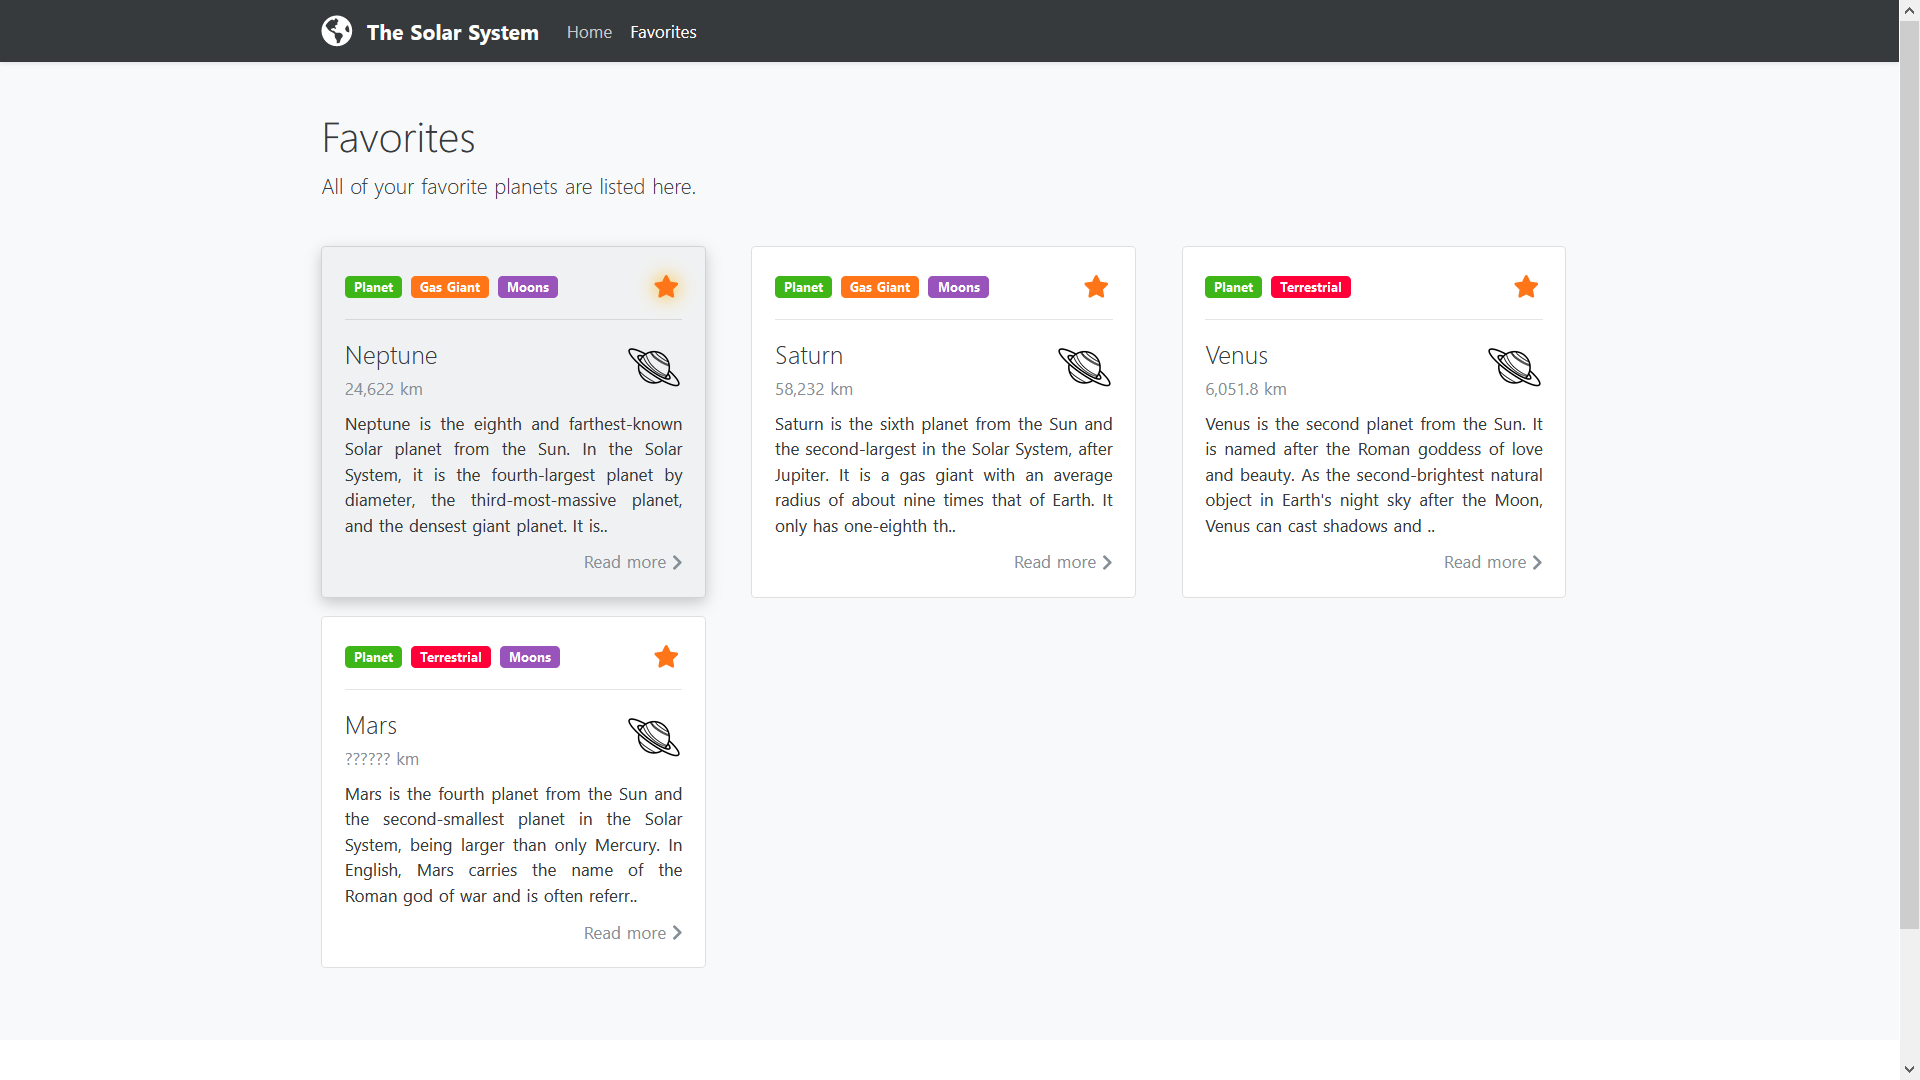
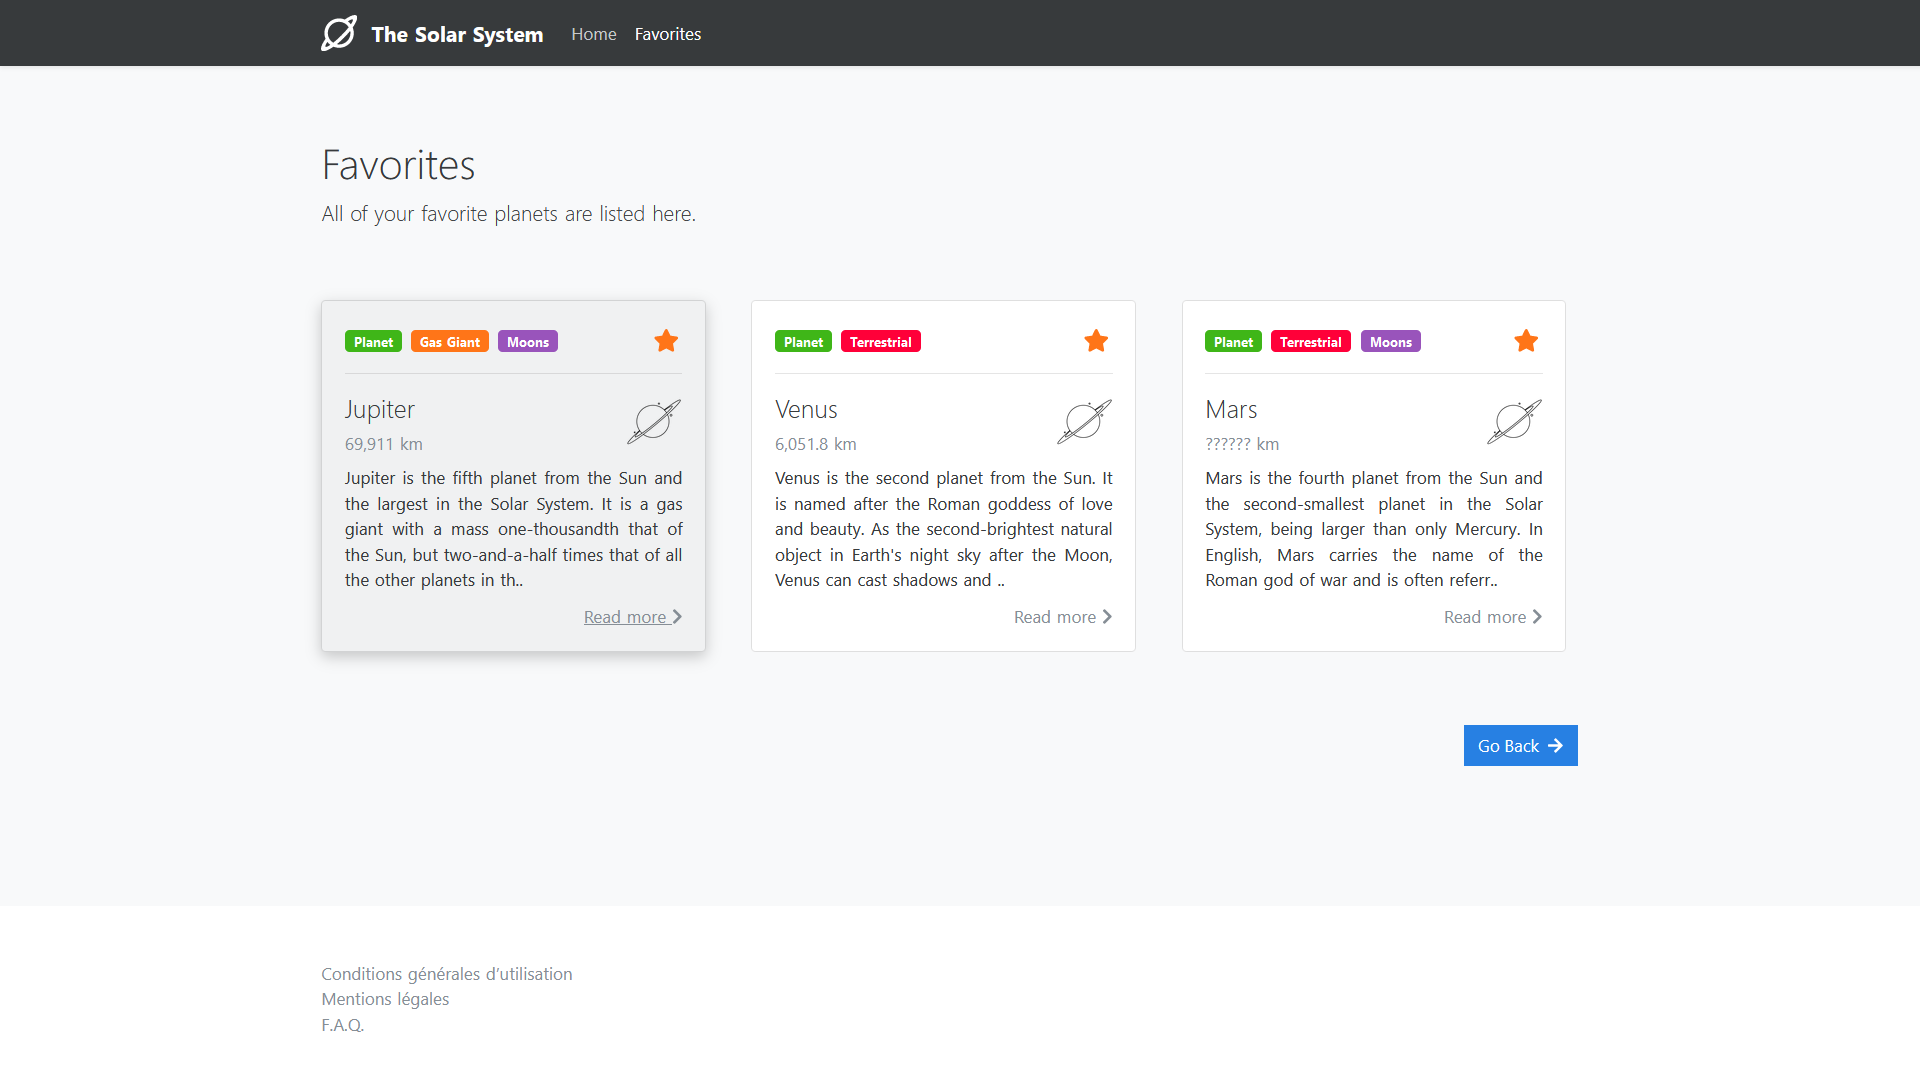
Improved Frontend

diff --git a/components/PlanetIcon.vue b/components/PlanetIcon.vue
@@ -1,0 +1,7 @@
+<template>
+  <svg xmlns="http://www.w3.org/2000/svg" xmlns:xlink="http://www.w3.org/1999/xlink" width="24pt" height="24pt" viewBox="0 0 24 24" version="1.1">
+    <g id="surface1">
+      <path class="planet-icon" style="stroke: none; fill-rule: nonzero; fill: white; fill-opacity: 1;" d="M 23.574219 0.421875 C 22.476562 -0.675781 19.4375 0.429688 15.742188 2.996094 C 14.558594 2.5 13.285156 2.246094 12 2.25 C 6.613281 2.25 2.25 6.613281 2.25 12 C 2.246094 13.285156 2.5 14.558594 2.996094 15.742188 C 0.429688 19.4375 -0.675781 22.476562 0.421875 23.574219 C 1.523438 24.675781 4.5625 23.574219 8.261719 21.003906 C 9.445312 21.496094 10.714844 21.75 12 21.75 C 17.382812 21.75 21.75 17.382812 21.75 12 C 21.75 10.714844 21.496094 9.445312 21.003906 8.261719 C 23.574219 4.5625 24.675781 1.523438 23.574219 0.421875 Z M 3 21 C 2.625 20.628906 3.113281 19.457031 4.207031 17.84375 C 4.761719 18.582031 5.417969 19.238281 6.160156 19.792969 C 4.539062 20.890625 3.371094 21.375 3 21 Z M 8.089844 18.371094 C 5.945312 17.046875 4.5 14.699219 4.5 12 C 4.5 7.863281 7.863281 4.5 12 4.5 C 14.699219 4.5 17.046875 5.945312 18.371094 8.089844 C 17.082031 9.71875 15.410156 11.585938 13.5 13.5 C 11.585938 15.410156 9.71875 17.082031 8.089844 18.371094 Z M 12 19.5 C 11.492188 19.5 10.984375 19.449219 10.484375 19.347656 C 12.117188 18.039062 13.679688 16.640625 15.15625 15.15625 C 16.640625 13.679688 18.039062 12.121094 19.347656 10.484375 C 19.449219 10.984375 19.5 11.492188 19.5 12 C 19.5 16.136719 16.136719 19.5 12 19.5 Z M 17.84375 4.207031 C 19.457031 3.113281 20.628906 2.625 21 3 C 21.375 3.371094 20.890625 4.539062 19.792969 6.160156 C 19.238281 5.417969 18.582031 4.761719 17.84375 4.207031 Z M 17.84375 4.207031 "/>
+    </g>
+  </svg>
+</template>

diff --git a/components/StarItem.vue b/components/StarItem.vue
@@ -36,14 +36,14 @@
           </div>
           <div class="col-3">
             <!-- Star Preview -->
-            <img class="float-right" :src="starPreview" :alt="starName" height="50" />
+            <img class="float-right" src="/planet-3.png" :alt="starName" height="50" />
           </div>
         </div>
         <!-- Star Description -->
         <p class="card-text text-justify">
           {{ starDescription | truncate }}
         </p>
-        <NuxtLink class="text-muted float-right stretched-link mb-0" :to="starLink" @click.native="setStar">Read more 
+        <NuxtLink class="text-muted float-right stretched-link mb-0" :to="starLink | lowercase" @click.native="setStar">Read more 
           <fa :icon="{ prefix: 'fas', iconName: 'chevron-right' }" />
         </NuxtLink>
       </div>
@@ -79,11 +79,8 @@ export default {
     starDescription() {
       return this.star.description == null ? 'No description.' : this.star.description;
     },
-    starPreview() {
-      return this.star.image == null ? '/planet-1.png' : '/planet-1.png'; //this.star.image
-    },
     starLink() {
-      return this.star.title == null ? '#' : this.star.title.toLowerCase();
+      return this.star.title == null ? '#' : this.star.title;
     },
     isGas() {
       switch(this.star.slug) {
@@ -109,6 +106,9 @@ export default {
   filters: {
     truncate(string) {
       return string.substring(0, 200) + '..';
+    },
+    lowercase(string) {
+      return string.toLowerCase();
     }
   }
 }

diff --git a/components/Navbar.vue b/components/Navbar.vue
@@ -3,7 +3,7 @@
     <nav class="navbar navbar-expand-lg fixed-top navbar-dark bg-dark shadow-sm">
       <div class="container">
         <NuxtLink class="navbar-brand text-white d-inline-flex align-items-center font-weight-bold" to="/stars">
-          <fa class="globe-icon" :icon="{ prefix: 'fas', iconName: 'globe-americas' }" style="font-size: 28px;" />
+          <PlanetIcon />
           &nbsp;&nbsp;{{ this.name }}
         </NuxtLink>
         <button class="navbar-toggler" type="button" data-toggle="collapse" data-target="#navbarNav" aria-controls="navbarNav" aria-expanded="false" aria-label="Toggle navigation">

diff --git a/pages/stars.vue b/pages/stars.vue
@@ -1,13 +1,13 @@
 <template>
   <main>
-    <div class="container pt-4">
+    <div class="container pt-5">
       <div class="row align-items-center">
         <div class="col-lg-8">
           <h1>{{ this.title }}</h1>
           <p class="lead">{{ this.description }}</p>
         </div>
         <div class="col-lg-4">
-          <div class="d-lg-none d-xl-block pt-4"></div>
+          <div class="d-lg-none pt-4"></div>
           <h3>Filters</h3>
           <div class="d-inline-flex">
             <button class="btn btn-link btn-xs p-0" @click="togglePlanet">

diff --git a/pages/_star.vue b/pages/_star.vue
@@ -1,6 +1,6 @@
 <template>
   <main>
-    <div class="container pt-4">
+    <div class="container pt-5">
       <div class="row">
         <div class="col-lg-6">
           <h1>{{ starName }}</h1>
@@ -12,7 +12,7 @@
           </h3>
         </div>
         <div class="col-lg-6">
-          <div class="d-lg-none d-xl-block pt-5"></div>
+          <div class="d-lg-none pt-5"></div>
           <img class="float-lg-right" :src="starPreview" :alt="starName" height="200" />
         </div>
       </div>

diff --git a/pages/favorites.vue b/pages/favorites.vue
@@ -1,6 +1,6 @@
 <template>
   <main>
-    <div class="container pt-4">
+    <div class="container pt-5">
       <h1>{{ this.title }}</h1>
       <p class="lead">{{ this.description }}</p>
       <FavoriteList />
